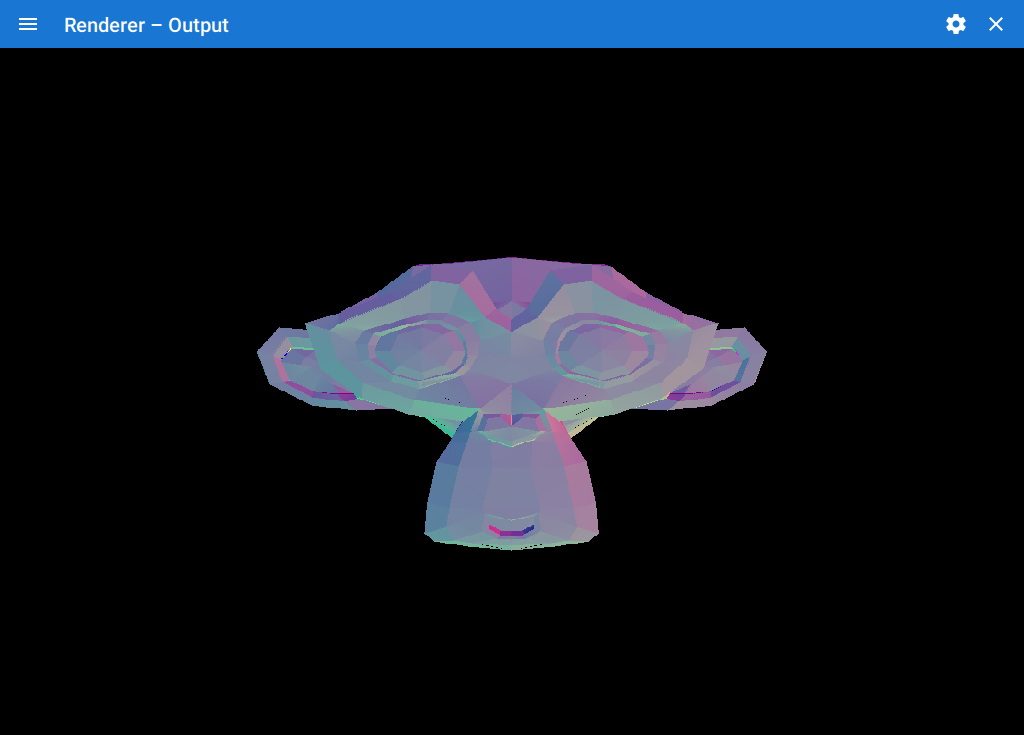
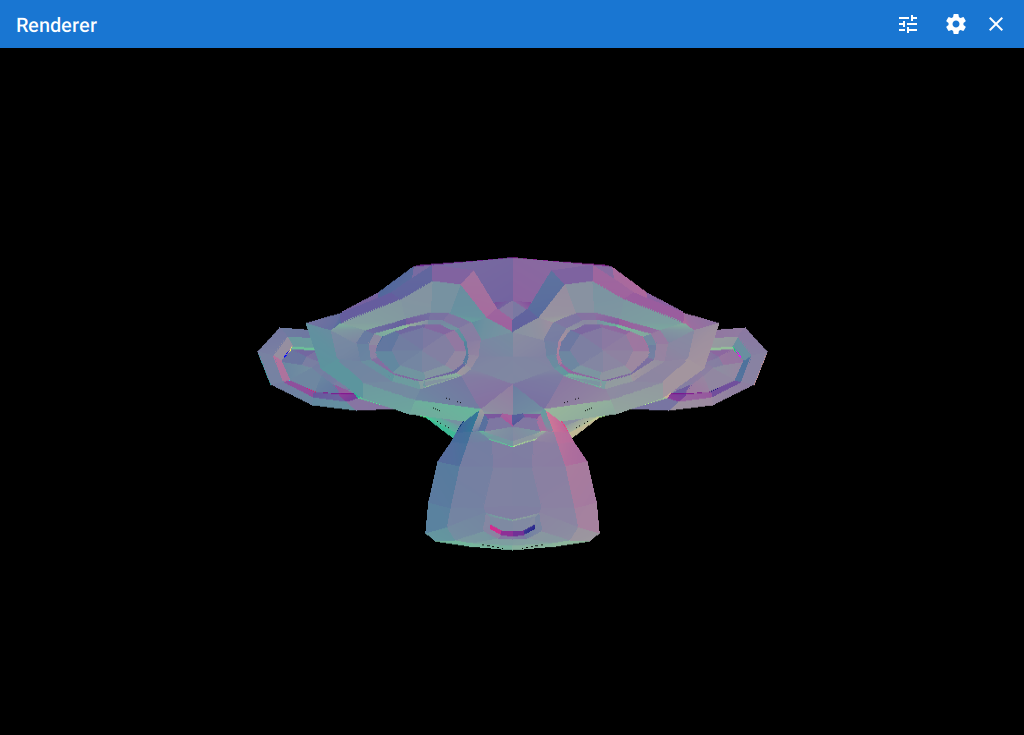
Update the showcase

Changed region(s): [[0.0, 0.0299, 0.2188, 0.0599], [0.875, 0.0299, 0.9062, 0.0599]]

diff --git a/README.md b/README.md
@@ -4,8 +4,9 @@ Clockwork
 Clockwork is a software renderer written to understand the nitty-gritties of the graphics pipeline.
 
 <p align="center"><img src="/documentation/showcase/figure.1.png?raw=true" alt="Blender's Suzanne rendered in Clockwork."></p>
-<p align="center"><img src="/documentation/showcase/figure.2.png?raw=true" alt="Customizing Clockwork's rendering pipeline."></p>
-<p align="center"><img src="/documentation/showcase/figure.3.png?raw=true" alt="Adjusting the renderer's scissor box."></p>
+<p align="center"><img src="/documentation/showcase/figure.2.png?raw=true" alt="Configuring Clockwork's rendering context."></p>
+<p align="center"><img src="/documentation/showcase/figure.3.png?raw=true" alt="Blender's Suzanne rendered (wireframe) in Clockwork."></p>
+<p align="center"><img src="/documentation/showcase/figure.4.png?raw=true" alt="Adjusting the renderer's scissor box."></p>
 
 
 Requirements
